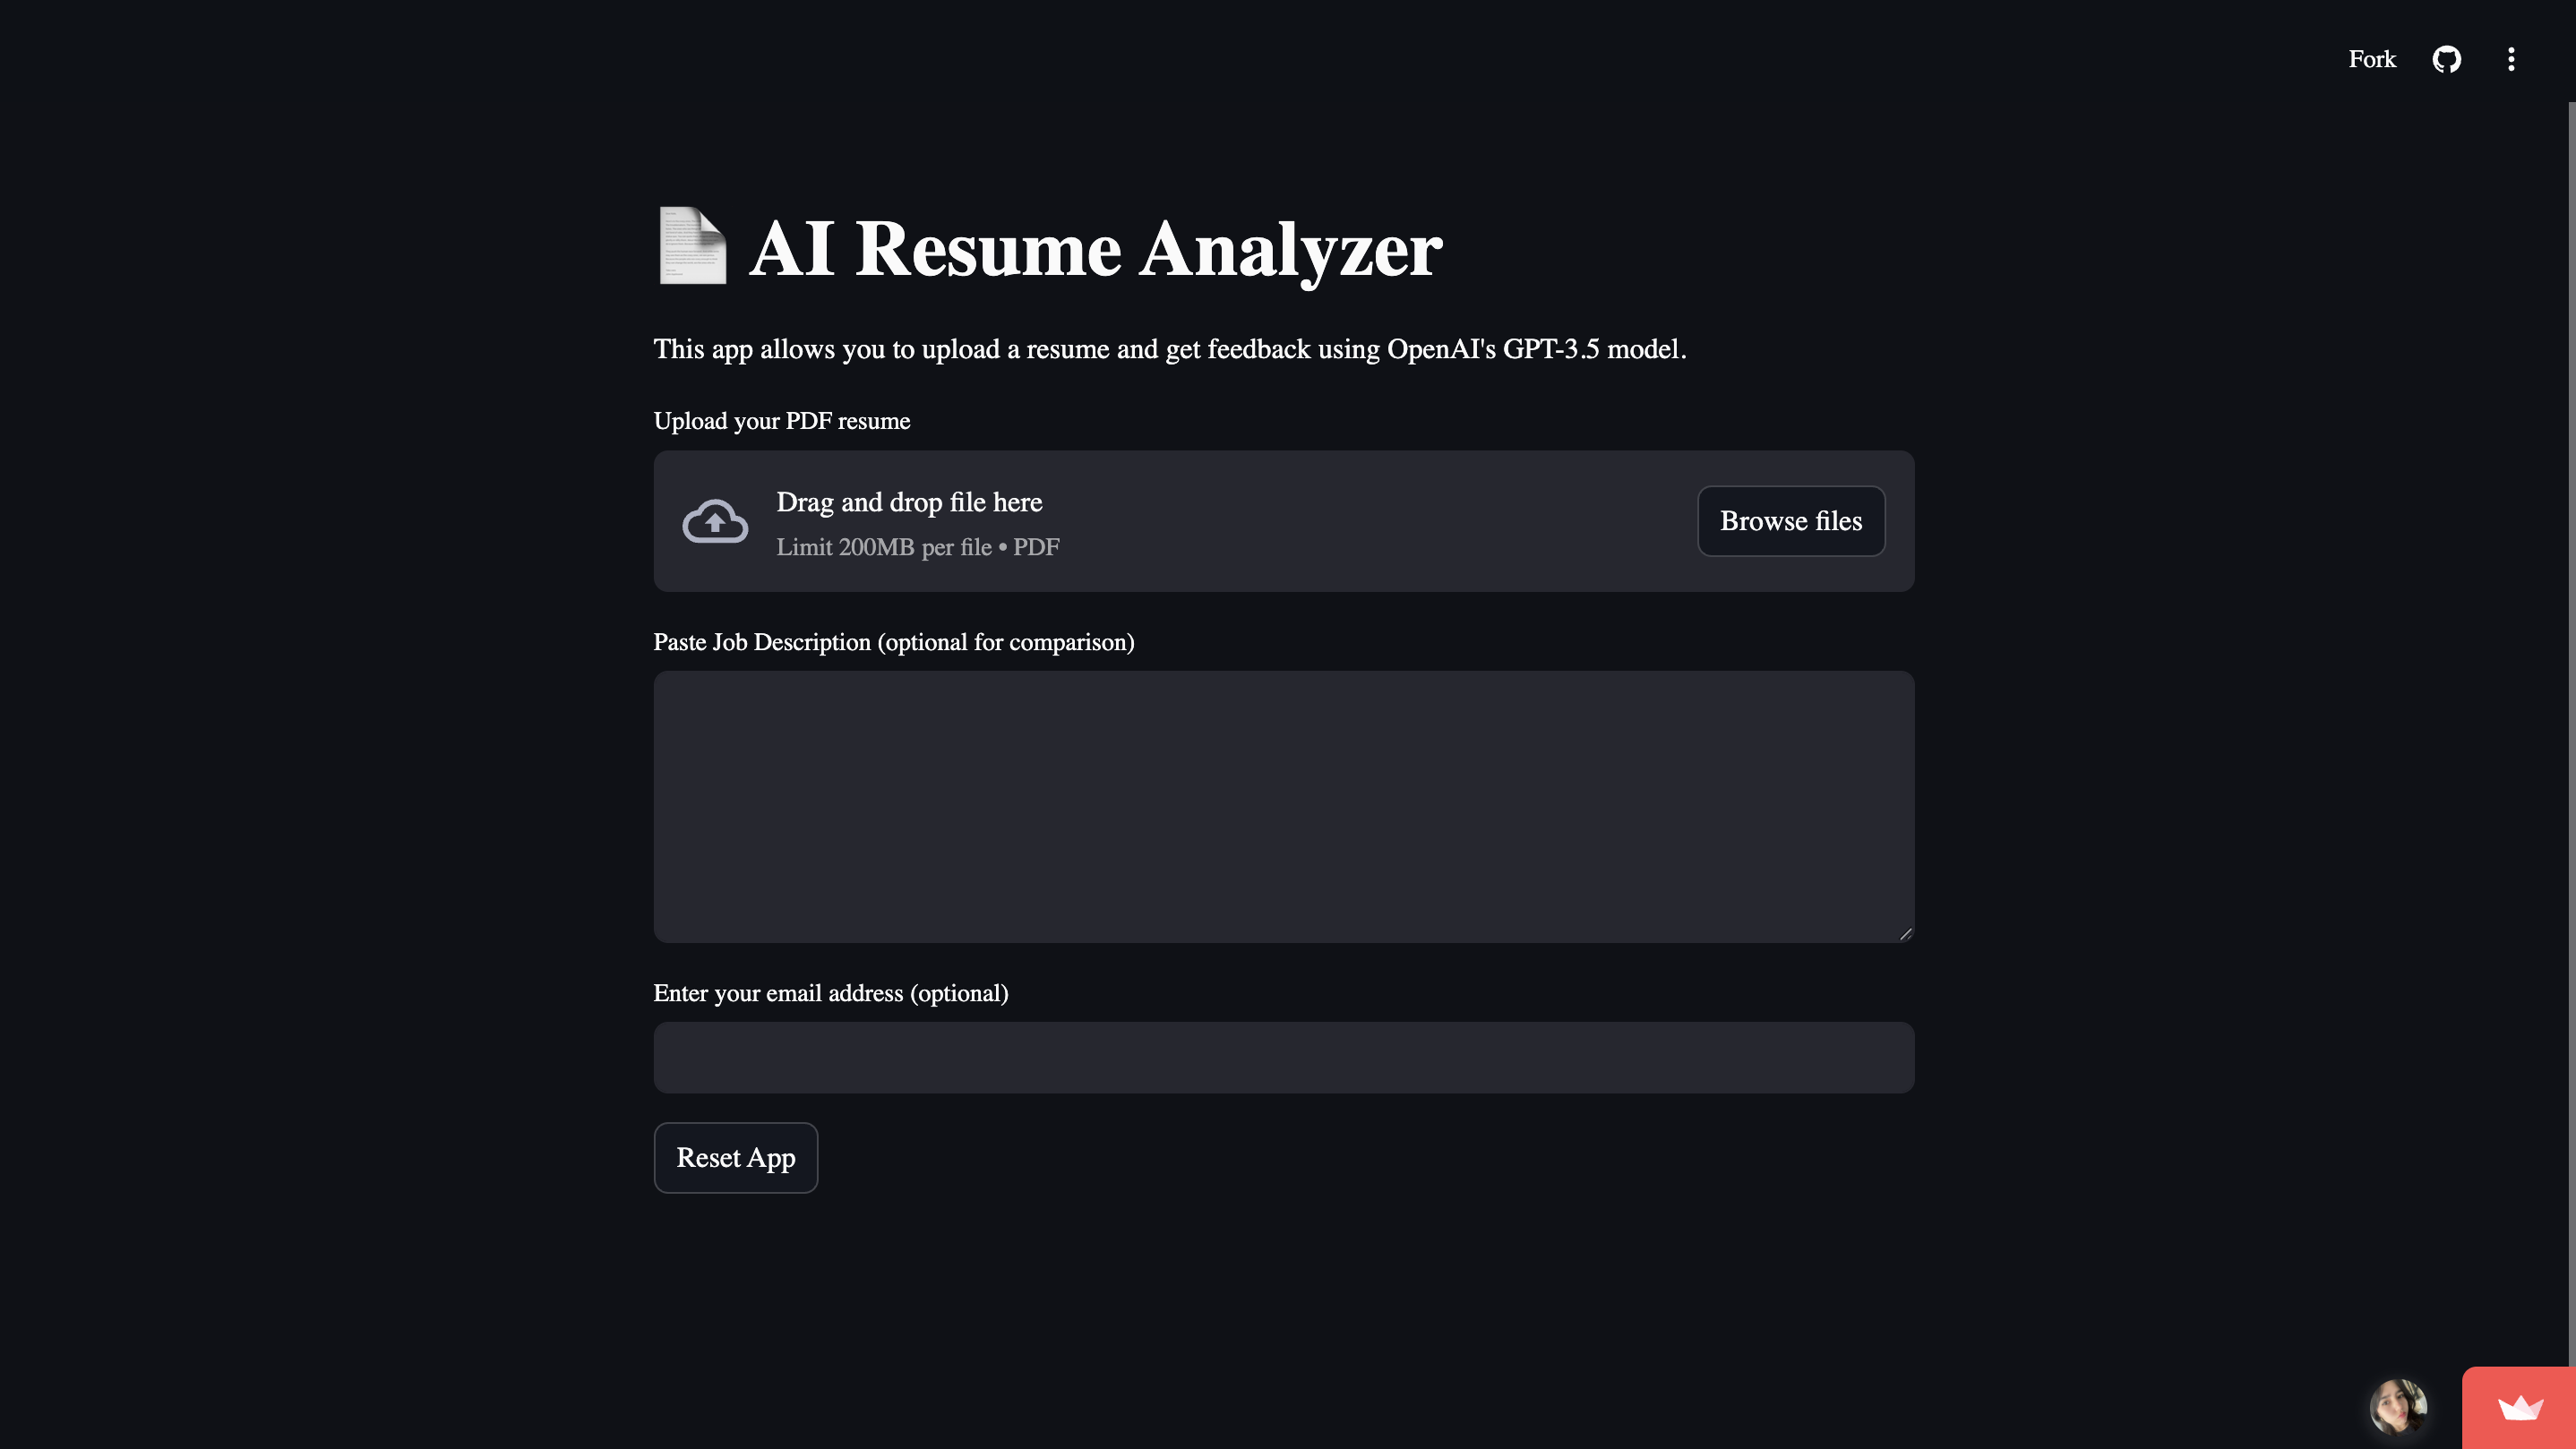
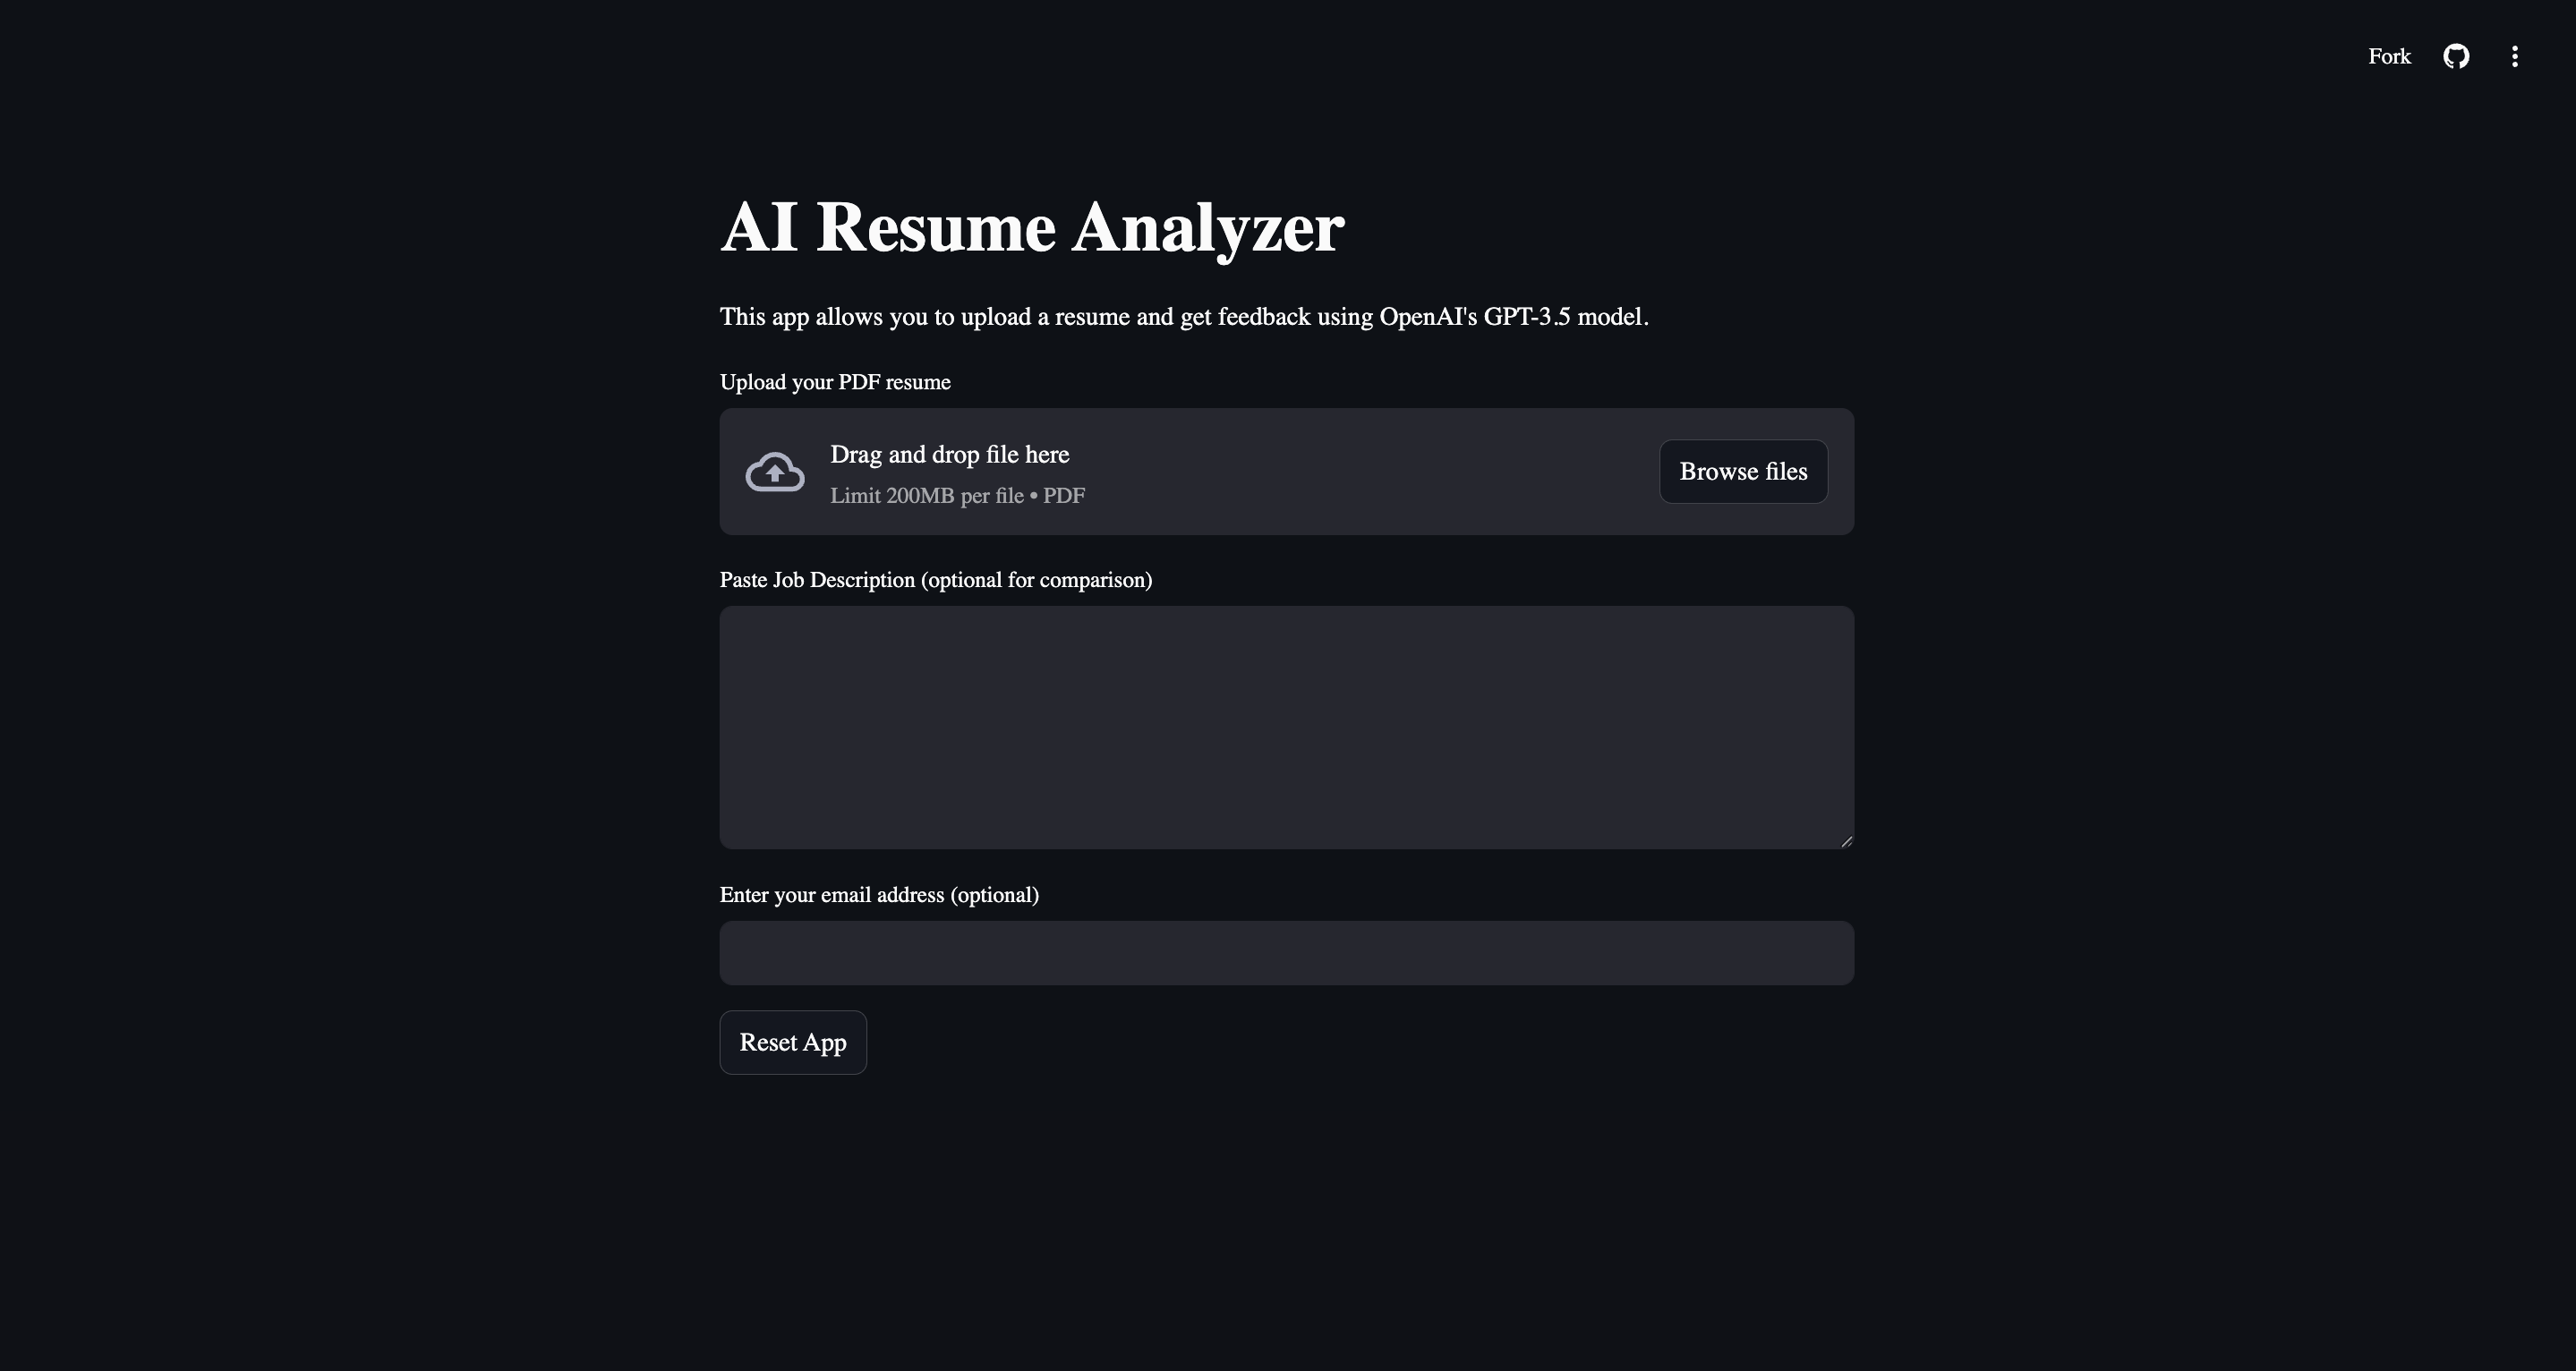
Updated some project images

diff --git a/src/content/projects.tsx b/src/content/projects.tsx
@@ -50,7 +50,7 @@ export const projects: Project[] = [
             "Matching algorithm design and implementation",
         ],
         images: [
-            "/hot-take-singup-page.png",
+            "/hot-take-singup.png",
             "/hot-take-verification-page.png",
             "/hot-take-interests-page.png",
             "/hot-take-chat-page.png",